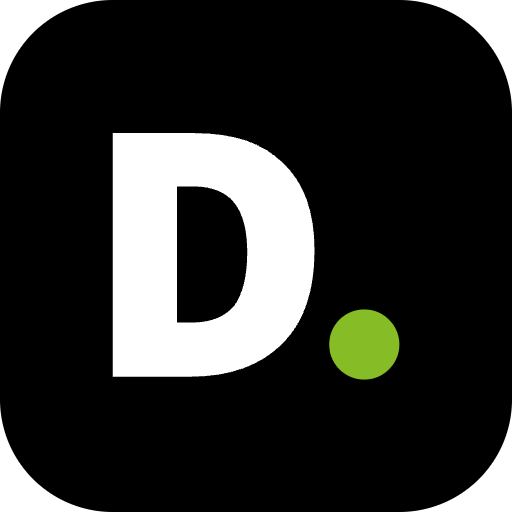
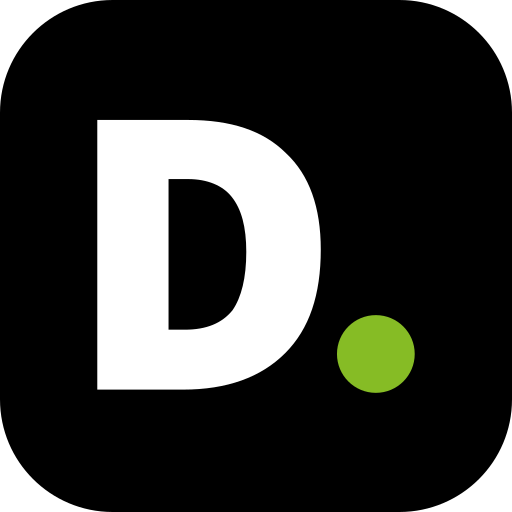
Brand: Tier 1 Deloitte shell assets and theme tokens (#1)
- Point feedback/issues URL at AI-coder88/deloitte101
- Set PWA/browser theme color to Deloitte primary green (#26890d)
- Wire manifest background_color from BRAND
- Add SVG sources for og-image and maskable icons; regenerate PNGs
- Add yarn brand:assets script to refresh raster assets from SVG

diff --git a/excalidraw-app/branding/brand.ts b/excalidraw-app/branding/brand.ts
@@ -3,10 +3,19 @@
 
 const productName = "Draw";
 
+/** Primary UI green from `theme.scss` — used for browser/PWA chrome. */
+const themeColor = "#26890d";
+
+/** Deloitte accent green — used in logos and marketing imagery. */
+const accentColor = "#86bc25";
+
 export const BRAND = {
   productName,
   name: `Deloitte ${productName}`,
   description: `Deloitte ${productName} is a collaborative whiteboard for sketching diagrams that have a hand-drawn feel to them.`,
-  issuesUrl: "https://github.com/arnavverma2001/cursormystery/issues",
-  themeColor: "#000000",
+  issuesUrl: "https://github.com/AI-coder88/deloitte101/issues",
+  themeColor,
+  accentColor,
+  /** PWA install / splash background */
+  backgroundColor: "#ffffff",
 } as const;
